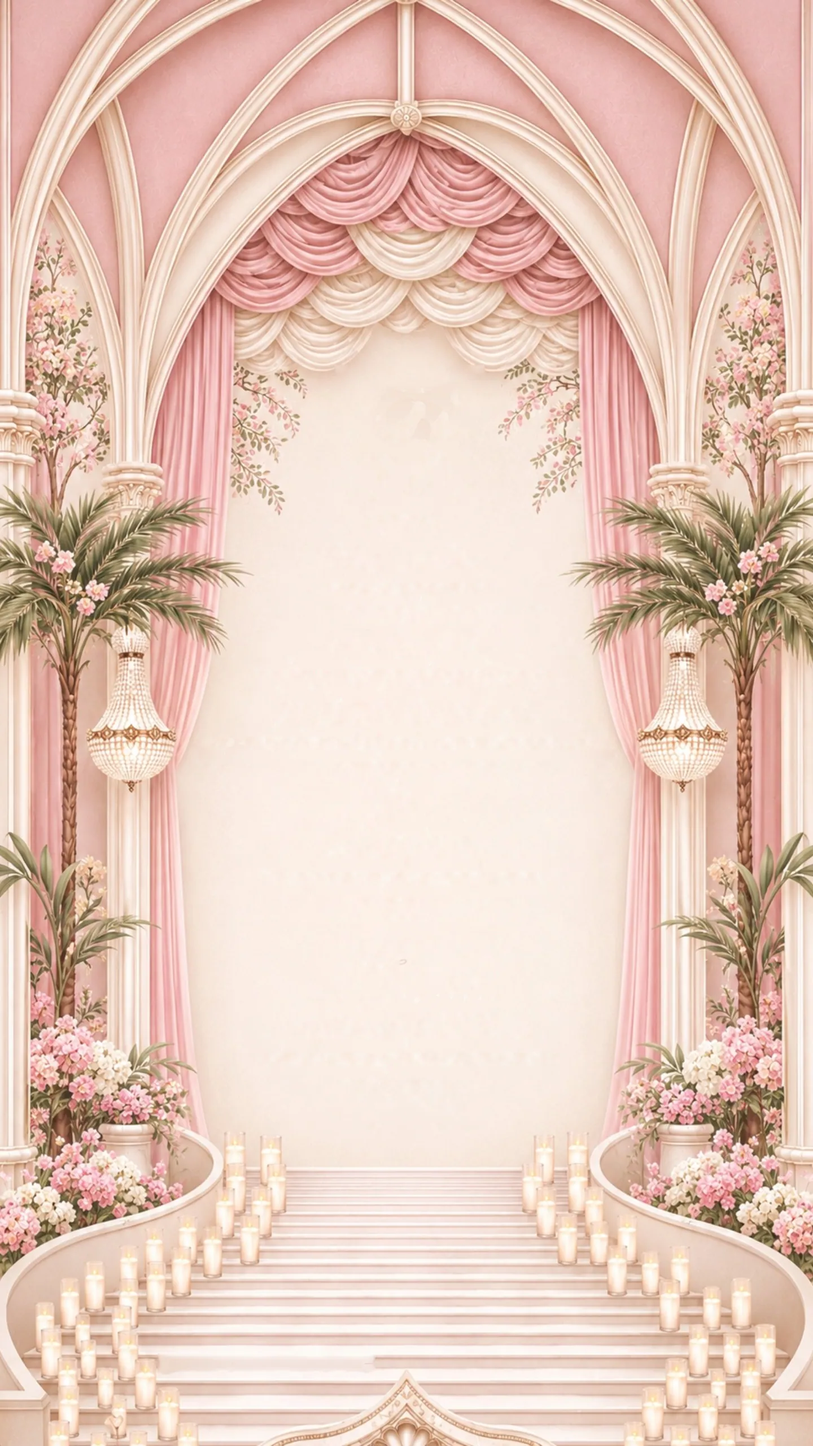
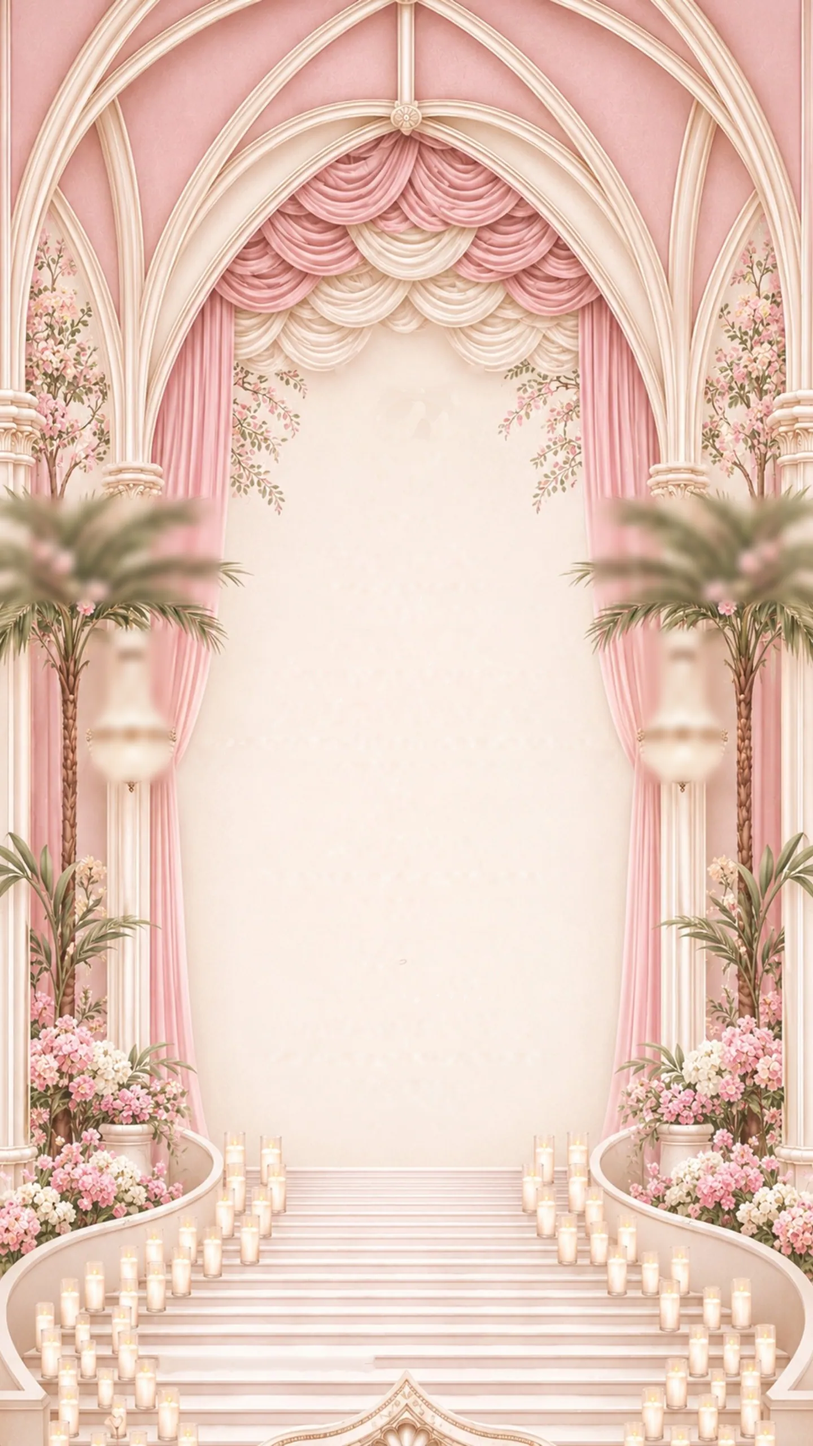
Smoother keyhole flight, moving chandeliers and palms, fix Zahid overlap
- Key is smaller and no longer auto-focused (no box around it)
- Keyhole fly-through is slower (2.6 s) and cross-fades into the hall
  instead of scaling 28x, so the end no longer stutters
- Chandeliers and palm fronds are cut from the artwork as soft-edged
  sprites and sway around their pivots, glows swing with them
- Script names are fitted to height as well as width so Zahid no
  longer runs into the S/o line

Changed region(s): [[0.7188, 0.3438, 1.0, 0.5312], [0.0, 0.3438, 0.2812, 0.5312]]

diff --git a/src/intro.js b/src/intro.js
@@ -7,7 +7,7 @@ import { startMusic, playClick } from './audio.js';
 import { swingLoops } from './entries.js';
 
 const REST = { x: 50, y: 73 }; // key centre at rest (% of canvas)
-const KEY_W = 46; // key width in cqw
+const KEY_W = 36; // key width in cqw
 
 export function buildIntro(root) {
   const page = scene.pages[1];
@@ -92,7 +92,6 @@ export function runIntro(I, { reduced, fx, page2, onDoorsNearlyOpen, onOpenStart
   };
   I.root.addEventListener('click', open);
   I.keyBtn.addEventListener('keydown', open);
-  gsap.delayedCall(1.1, () => I.keyBtn.focus({ preventScroll: true }));
 
   function crossfade() {
     float.kill();
@@ -140,24 +139,26 @@ export function runIntro(I, { reduced, fx, page2, onDoorsNearlyOpen, onOpenStart
     // 4. the lock gives: light pours through the keyhole, the key dissolves into it
     tl.to(I.holeFill, { opacity: 0, duration: 0.6, ease: 'power1.inOut' }, 2.25);
     tl.fromTo(I.holeLight, { opacity: 0, scale: 0.25 }, { opacity: 1, scale: 0.7, duration: 0.7, ease: 'power2.out' }, 2.25);
-    tl.fromTo(I.rays, { opacity: 0, rotation: 0, scale: 0.6 }, { opacity: 0.9, rotation: 25, scale: 1, duration: 1.2, ease: 'power1.out' }, 2.3);
+    tl.fromTo(I.rays, { opacity: 0, rotation: 0, scale: 0.6 }, { opacity: 0.9, rotation: 20, scale: 1, duration: 1.3, ease: 'power1.out' }, 2.3);
     tl.to(I.keyBtn, { opacity: 0, duration: 0.35, ease: 'power1.out' }, 2.45);
 
     // 5. fly through the keyhole: the page-1 stage zooms around the keyhole, its window grows past the screen
-    const T = 2.75, D = 1.7;
-    tl.fromTo(I.stage, { scale: 1 }, { scale: 28, duration: D, ease: 'expo.in' }, T);
-    tl.to(I.holeLight, { scale: 6, opacity: 0, duration: D, ease: 'power2.in' }, T + 0.15);
-    tl.to(I.rays, { opacity: 0, scale: 3, rotation: 60, duration: D * 0.8, ease: 'power1.in' }, T);
+    // Moderate scale + a cross-fade (instead of a huge scale) keeps every frame cheap and the hand-off seamless.
+    const T = 2.95, D = 2.6;
+    tl.fromTo(I.stage, { scale: 1 }, { scale: 9, duration: D, ease: 'power2.in' }, T);
+    tl.to(I.stage, { opacity: 0, duration: D * 0.5, ease: 'sine.in' }, T + D * 0.5);
+    tl.to(I.holeLight, { scale: 4, opacity: 0, duration: D * 0.85, ease: 'sine.inOut' }, T + 0.2);
+    tl.to(I.rays, { opacity: 0, scale: 2.4, rotation: 55, duration: D * 0.7, ease: 'sine.in' }, T);
     tl.add(() => {
       const r = I.flash.getBoundingClientRect();
-      fx.burst(r.left + r.width / 2, r.top + r.height / 2, { petals: 24, glitter: 22, speed: 320, gold: true });
-    }, T + D * 0.55);
-    // 6. page 2 beyond the keyhole: bright and soft, settling as we arrive
+      fx.burst(r.left + r.width / 2, r.top + r.height / 2, { petals: 24, glitter: 22, speed: 300, gold: true });
+    }, T + D * 0.5);
+    // 6. page 2 beyond the keyhole gently settles as we arrive (transform only — no filters mid-flight)
     if (page2) {
-      tl.fromTo(page2, { scale: 1.18, filter: 'blur(5px) brightness(1.25)' },
-        { scale: 1, filter: 'blur(0px) brightness(1)', duration: D + 0.6, ease: 'power2.out', clearProps: 'filter,transform' }, T - 0.1);
+      tl.fromTo(page2, { scale: 1.12 }, { scale: 1, duration: D + 0.5, ease: 'sine.out', clearProps: 'transform' }, T);
     }
-    tl.add(() => onDoorsNearlyOpen?.(), T + D - 0.3);
+    // page 2's own sequence starts once the flight has landed, so the two never compete for frames
+    tl.add(() => onDoorsNearlyOpen?.(), T + D + 0.05);
     if (window.__debug) window.__introTL = tl;
   }
 

diff --git a/src/entries.js b/src/entries.js
@@ -129,11 +129,17 @@ export function onEnter(trigger, tl, { start = 'top 65%' } = {}) {
 export function swingLoops(glows, layers = {}, { random = true } = {}) {
   const loops = [];
   const ph = (p) => (random ? -Math.random() * p : 0);
+  // each chandelier swings together with its glow (same pivot, same tween)
+  const sides = ['left', 'right'];
+  const used = new Set();
   glows.forEach((g, i) => {
     const period = i % 2 ? 6.3 : 5.5;
-    loops.push(gsap.fromTo(g, { rotation: -2 }, { rotation: 2, duration: period / 2, ease: 'sine.inOut', repeat: -1, yoyo: true, delay: ph(period) }));
+    const layer = layers[`chandelier-${sides[i % 2]}`];
+    if (layer) used.add(layer);
+    loops.push(gsap.fromTo(layer ? [g, layer] : g, { rotation: -2 }, { rotation: 2, duration: period / 2, ease: 'sine.inOut', repeat: -1, yoyo: true, delay: ph(period) }));
   });
   for (const [name, el] of Object.entries(layers)) {
+    if (used.has(el)) continue;
     if (name.startsWith('chandelier')) {
       const period = name.endsWith('right') ? 6.3 : 5.5;
       loops.push(gsap.fromTo(el, { rotation: -2 }, { rotation: 2, duration: period / 2, ease: 'sine.inOut', repeat: -1, yoyo: true, delay: ph(period) }));

diff --git a/src/scene.js b/src/scene.js
@@ -185,6 +185,17 @@ function layerEls(n, page, lazy) {
     if (pv) img.style.transformOrigin = `${pv.x}% ${pv.y}%`;
     out[name] = img;
   }
+  // fallback sprites cut from the artwork (chandeliers, palm fronds) — positioned boxes with their own pivot
+  for (const sp of page.sprites || []) {
+    if (out[sp.name]) continue;
+    const src = `${BASE}${sp.src}`;
+    const img = h('img', {
+      class: `layer layer-${sp.name} sprite`, alt: '', draggable: 'false', decoding: 'async',
+      ...(lazy ? { 'data-src': src, 'data-srcset': `${src} 1x` } : { src }),
+      style: { position: 'absolute', left: `${sp.x}%`, top: `${sp.y}%`, width: `${sp.w}%`, height: `${sp.h}%`, transformOrigin: `${sp.ox}% ${sp.oy}%` },
+    });
+    out[sp.name] = img;
+  }
   return out;
 }
 
